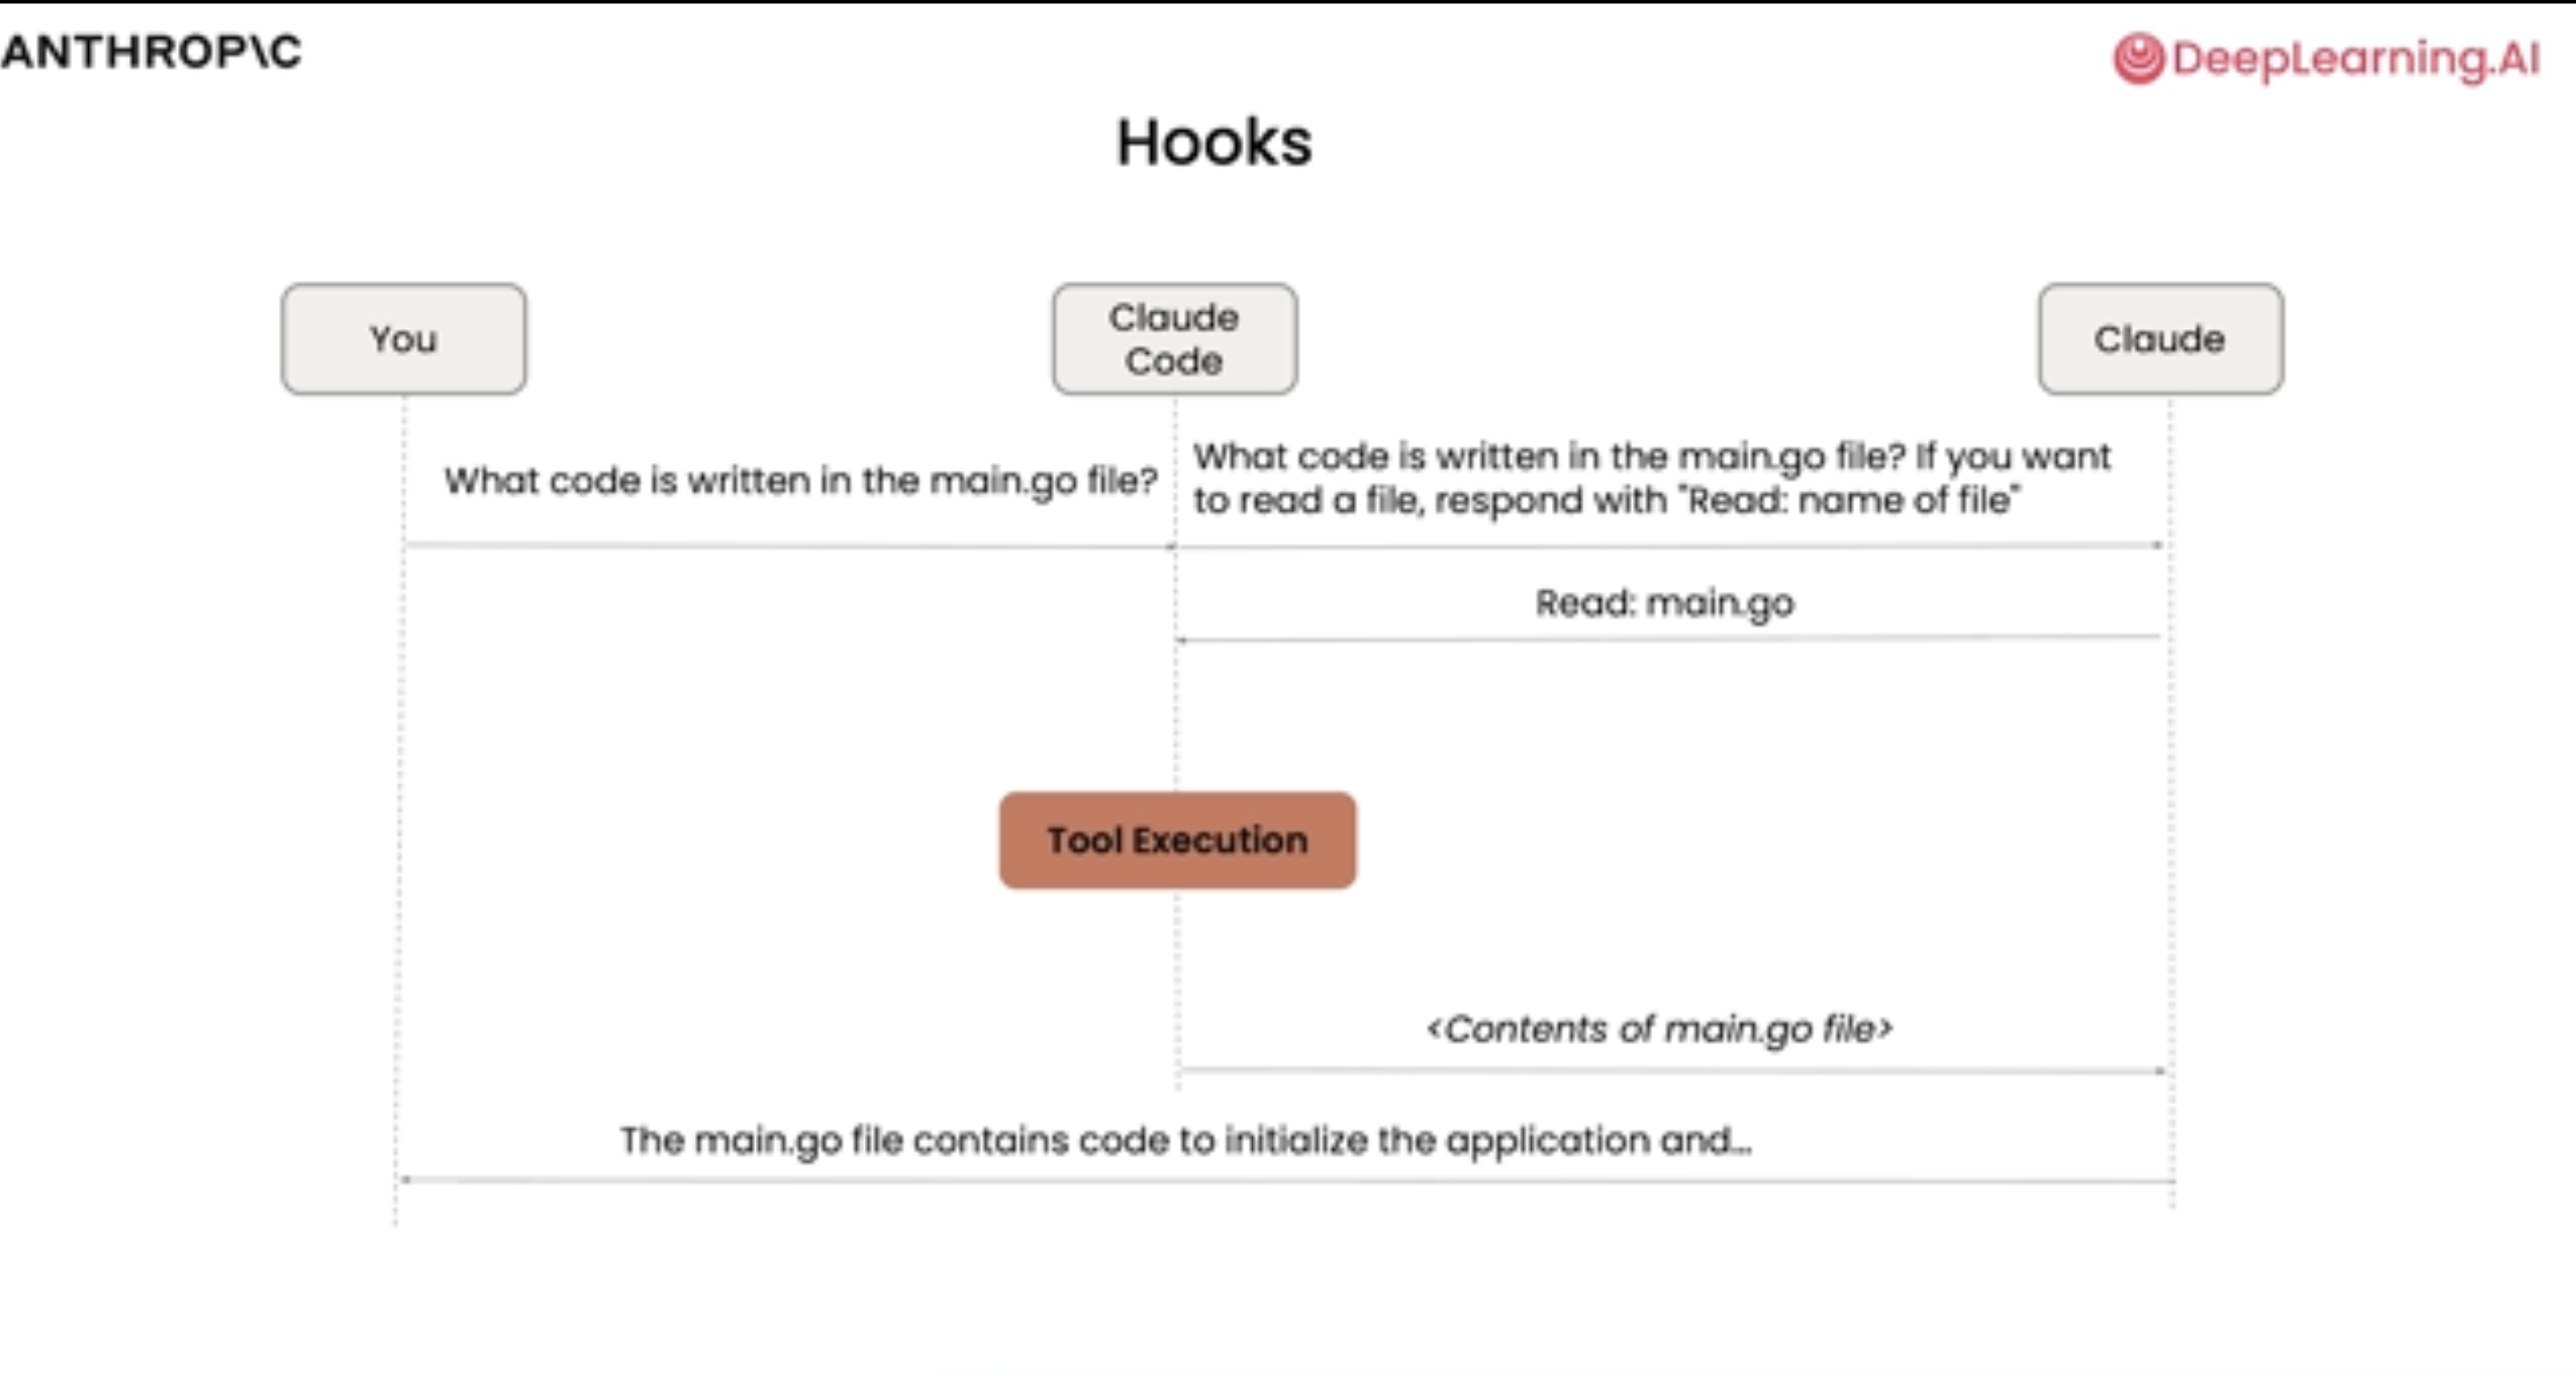
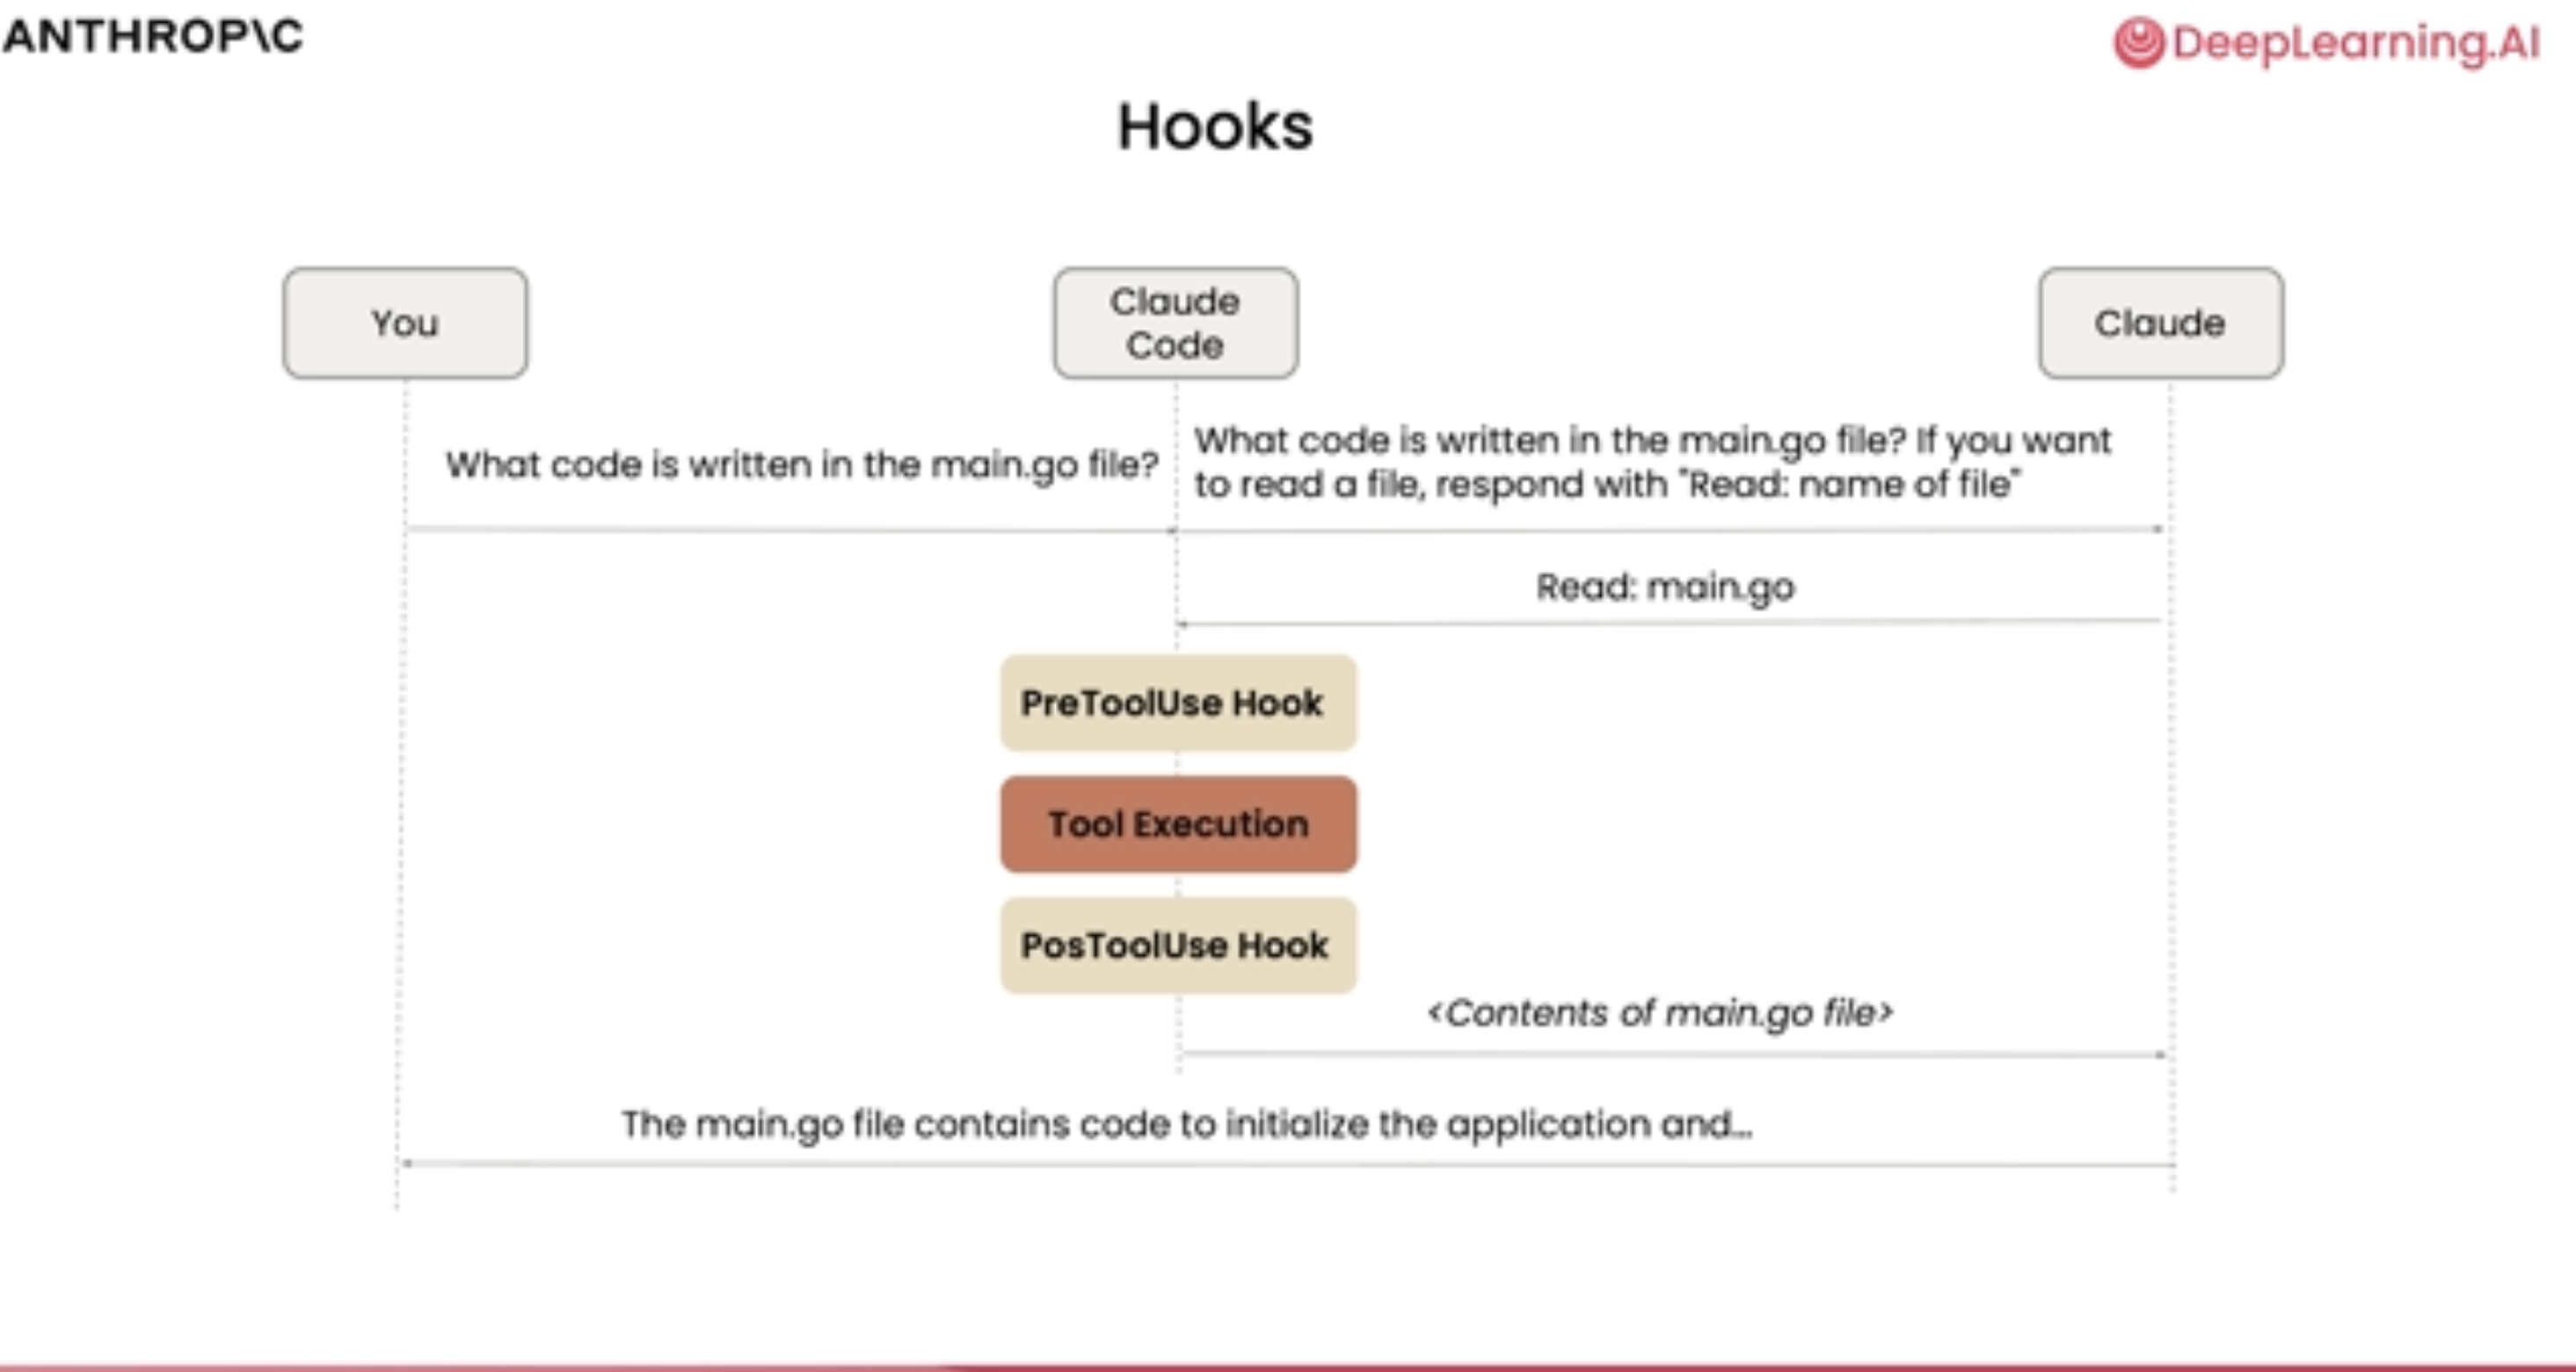
Quartz sync: Feb 17, 2026, 3:47 PM

diff --git a/quartz/styles/custom.scss b/quartz/styles/custom.scss
@@ -1,3 +1,143 @@
 @use "./base.scss";
+@use "./variables.scss" as *;
 
-// put your custom CSS here!
+// Landing Page
+.landing-page {
+  & > h1:first-child {
+    margin-top: 0;
+  }
+}
+
+// Card Grid: 2 columns on desktop, 1 on mobile
+.garden-cards {
+  display: grid;
+  grid-template-columns: repeat(2, 1fr);
+  gap: 1rem;
+  margin: 1.5rem 0;
+
+  @media all and ($mobile) {
+    grid-template-columns: 1fr;
+  }
+}
+
+.garden-card {
+  background-color: var(--highlight);
+  border: 1px solid var(--lightgray);
+  border-radius: 8px;
+  overflow: hidden;
+  transition:
+    border-color 0.2s ease,
+    box-shadow 0.2s ease;
+
+  &:hover {
+    border-color: var(--tertiary);
+    box-shadow: 0 2px 8px rgba(0, 0, 0, 0.08);
+  }
+
+  & h3 {
+    margin-top: 0.5rem;
+    margin-bottom: 0.5rem;
+    font-size: 1.1rem;
+    padding: 0 1.25rem;
+  }
+
+  & p {
+    margin: 0;
+    font-size: 0.9rem;
+    opacity: 0.85;
+    line-height: 1.5;
+    padding: 0 1.25rem 1.25rem;
+  }
+
+  & h3 a.internal {
+    background-color: transparent;
+    padding: 0;
+    font-weight: $semiBoldWeight;
+  }
+}
+
+.card-img {
+  width: 100%;
+  height: 290px;
+  object-fit: cover;
+  display: block;
+}
+
+// Hide right sidebar on landing page, widen center column
+body[data-slug="index"] .sidebar.right {
+  display: none;
+}
+
+body[data-slug="index"] .page > #quartz-body {
+  @media all and ($desktop) {
+    grid-template-columns: $sidePanelWidth auto;
+    grid-template-areas:
+      "grid-sidebar-left grid-header"
+      "grid-sidebar-left grid-center"
+      "grid-sidebar-left grid-footer";
+  }
+}
+
+// Recent Notes styling in afterBody
+.page-footer .recent-notes {
+  margin-top: 1rem;
+
+  & > h3 {
+    font-size: 1.1rem;
+    color: var(--secondary);
+    border-bottom: 1px solid var(--lightgray);
+    padding-bottom: 0.5rem;
+  }
+
+  & .recent-ul > li {
+    padding: 0.5rem 0;
+    border-bottom: 1px solid var(--lightgray);
+
+    &:last-child {
+      border-bottom: none;
+    }
+  }
+}
+
+// Blockquote polish
+blockquote {
+  background-color: var(--highlight);
+  padding: 0.75rem 1rem;
+  border-radius: 0 6px 6px 0;
+
+  & > p {
+    margin: 0;
+  }
+}
+
+// Heading scroll offset
+h1[id],
+h2[id],
+h3[id],
+h4[id],
+h5[id],
+h6[id] {
+  scroll-margin-top: 4rem;
+}
+
+// Footer separator
+footer {
+  border-top: 1px solid var(--lightgray);
+  padding-top: 1rem;
+}
+
+// Subtler horizontal rule
+hr {
+  background: linear-gradient(
+    to right,
+    transparent,
+    var(--lightgray),
+    transparent
+  );
+}
+
+// Folder listing description
+.page-listing > p {
+  opacity: 0.7;
+  font-size: 0.9rem;
+}

diff --git a/quartz.layout.ts b/quartz.layout.ts
@@ -5,11 +5,16 @@ import * as Component from "./quartz/components"
 export const sharedPageComponents: SharedLayout = {
   head: Component.Head(),
   header: [],
-  afterBody: [],
+  afterBody: [
+    Component.ConditionalRender({
+      component: Component.RecentNotes({ title: "Recently Updated", limit: 3, showTags: true }),
+      condition: (page) => page.fileData.slug === "index",
+    }),
+  ],
   footer: Component.Footer({
     links: {
-      GitHub: "https://github.com/jackyzha0/quartz",
-      "Discord Community": "https://discord.gg/cRFFHYye7t",
+      LinkedIn: "https://www.linkedin.com/in/elambharathithangavel/",
+      GitHub: "https://github.com/elampt",
     },
   }),
 }

diff --git a/quartz.config.ts b/quartz.config.ts
@@ -16,7 +16,7 @@ const config: QuartzConfig = {
       provider: "plausible",
     },
     locale: "en-US",
-    baseUrl: "quartz.jzhao.xyz",
+    baseUrl: "elampt.github.io",
     ignorePatterns: ["private", "templates", ".obsidian"],
     defaultDateType: "modified",
     theme: {
@@ -66,7 +66,7 @@ const config: QuartzConfig = {
         },
         keepBackground: false,
       }),
-      Plugin.ObsidianFlavoredMarkdown({ enableInHtmlEmbed: false }),
+      Plugin.ObsidianFlavoredMarkdown({ enableInHtmlEmbed: true }),
       Plugin.GitHubFlavoredMarkdown(),
       Plugin.TableOfContents(),
       Plugin.CrawlLinks({ markdownLinkResolution: "shortest" }),

diff --git a/content/index.md b/content/index.md
@@ -1,23 +1,59 @@
 ---
-title: "Elambharathi Thangavel | Python Developer"
-description: "Notes, projects, and learning journal of Elam"
+title: Elambharathi Thangavel
+description: "Notes, projects, and learning journal of a Python developer exploring tech, AI, and personal growth."
+cssclasses:
+  - landing-page
 ---
-# Welcome 👋
 
-Hey there! I am Elam (Currently working as a Product Solution Engineer at PhonePe)and this is my **personal knowledge garden** 🌱 — a living, evolving space where I document what I'm learning across tech, data, AI, and beyond.
+**Welcome to my Digital Garden**
 
-You'll find:
-- ✍️ Notes from courses and projects  
-- 🧪 Experiments in Python, FastAPI, and GenAI  
-- 📊 Explorations in data analysis & backend engineering  
-- 🚀 Mini-builds, weekend hacks, and thoughts along the way
+I'm Elam, a Product Solution Engineer at PhonePe. This is my personal living, evolving space where I document what I learn across tech, data, AI, and life.
 
-> 💡 _“Writing is thinking. To write well is to think clearly. That's why it's so hard.”_ – David McCullough
+>[!quote] You can't connect the dots looking forward; you can only connect them looking backwards. So you have to trust that the dots will somehow connect in your future. ― Steve Jobs
 
 ---
 
-### Let’s connect 🤝  
-📇 [LinkedIn](https://www.linkedin.com/in/elambharathithangavel/)  
-💻 [GitHub](https://github.com/elampt)
+## Explore
 
-Thanks for stopping by. Keep building, keep learning!
+<div class="garden-cards">
+<div class="garden-card">
+<img class="card-img" src="./Images/macbook.jpeg" alt="Tech" />
+
+### [Tech](./Tech/)
+
+Projects, courses, and technical learnings. Python, FastAPI, GenAI, machine learning, and backend engineering.
+
+</div>
+<div class="garden-card">
+<img class="card-img" src="./Images/kallikaatu_ithihaasam.jpeg" alt="Books" />
+
+### [Books](./Books/)
+
+Notes and reflections from books I have read — personal finance, self-improvement, and finding purpose.
+
+</div>
+<div class="garden-card">
+<img class="card-img" src="./Images/power_of_tiny_gains.png" alt="Better Tomorrow" />
+
+### [Better Tomorrow](./Better-Tomorrow/)
+
+Interview preparation, career planning, fitness tracking, and conversations that shaped my thinking.
+
+</div>
+<div class="garden-card">
+<img class="card-img" src="./Images/bharathi.jpeg" alt="Fernweh" />
+
+### [Fernweh](./Fernweh/)
+
+Travel stories, places I've explored, lessons from the road, and photos from the journey.
+
+</div>
+<div class="garden-card">
+<img class="card-img" src="./Images/nse_bombay.jpeg" alt="Lifestyle" />
+
+### [Lifestyle](./Lifestyle/)
+
+Personal finance planning and life organization.
+
+</div>
+</div>

diff --git a/content/Better Tomorrow/index.md b/content/Better Tomorrow/index.md
@@ -1,0 +1,6 @@
+---
+title: Better Tomorrow
+description: "Career planning, interview prep, fitness, and personal growth."
+---
+
+Everything I am doing to build a better future — interview preparation plans, career strategies, gym progress, and meaningful conversations.

diff --git a/content/Books/index.md b/content/Books/index.md
@@ -1,0 +1,6 @@
+---
+title: Books
+description: "Book notes, summaries, and reading reflections."
+---
+
+My reading log and detailed notes from books that shaped my thinking. Covers personal finance, self-improvement, and finding purpose.

diff --git a/content/Fernweh/index.md b/content/Fernweh/index.md
@@ -1,0 +1,6 @@
+---
+title: Fernweh
+description: "Travel stories, places explored, and lessons from the road."
+---
+
+Fernweh (A German word for an ache to travel) — stories from places I've been, what I learned along the way, and photos from the journey.

diff --git a/content/Lifestyle/index.md b/content/Lifestyle/index.md
@@ -1,0 +1,6 @@
+---
+title: Lifestyle
+description: "Personal finance and life organization."
+---
+
+Plans and frameworks for managing money and organizing life.

diff --git a/content/Tech/index.md b/content/Tech/index.md
@@ -1,0 +1,6 @@
+---
+title: Tech
+description: "Technical projects, course notes, and engineering learnings."
+---
+
+Notes from my journey through software engineering, data science, and AI. Here you will find project write-ups, course notes from deeplearning.ai and AWS, and learnings from tools like FastAPI, Python, and more.